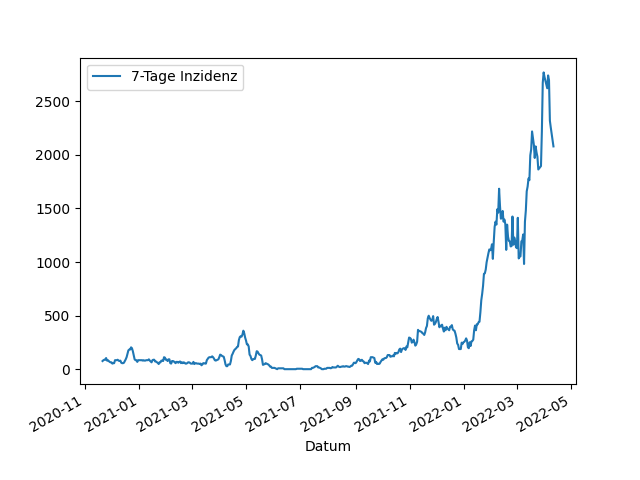
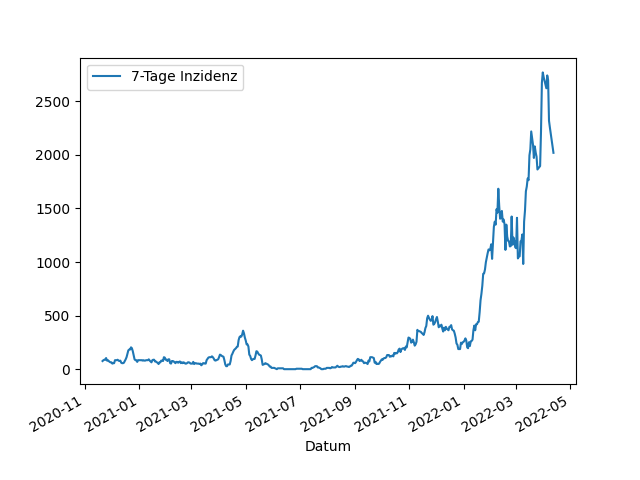
Update images

diff --git a/_includes/aktuelle_inzidenz.md b/_includes/aktuelle_inzidenz.md
@@ -1,1 +1,1 @@
-2079,7
+2019,8
